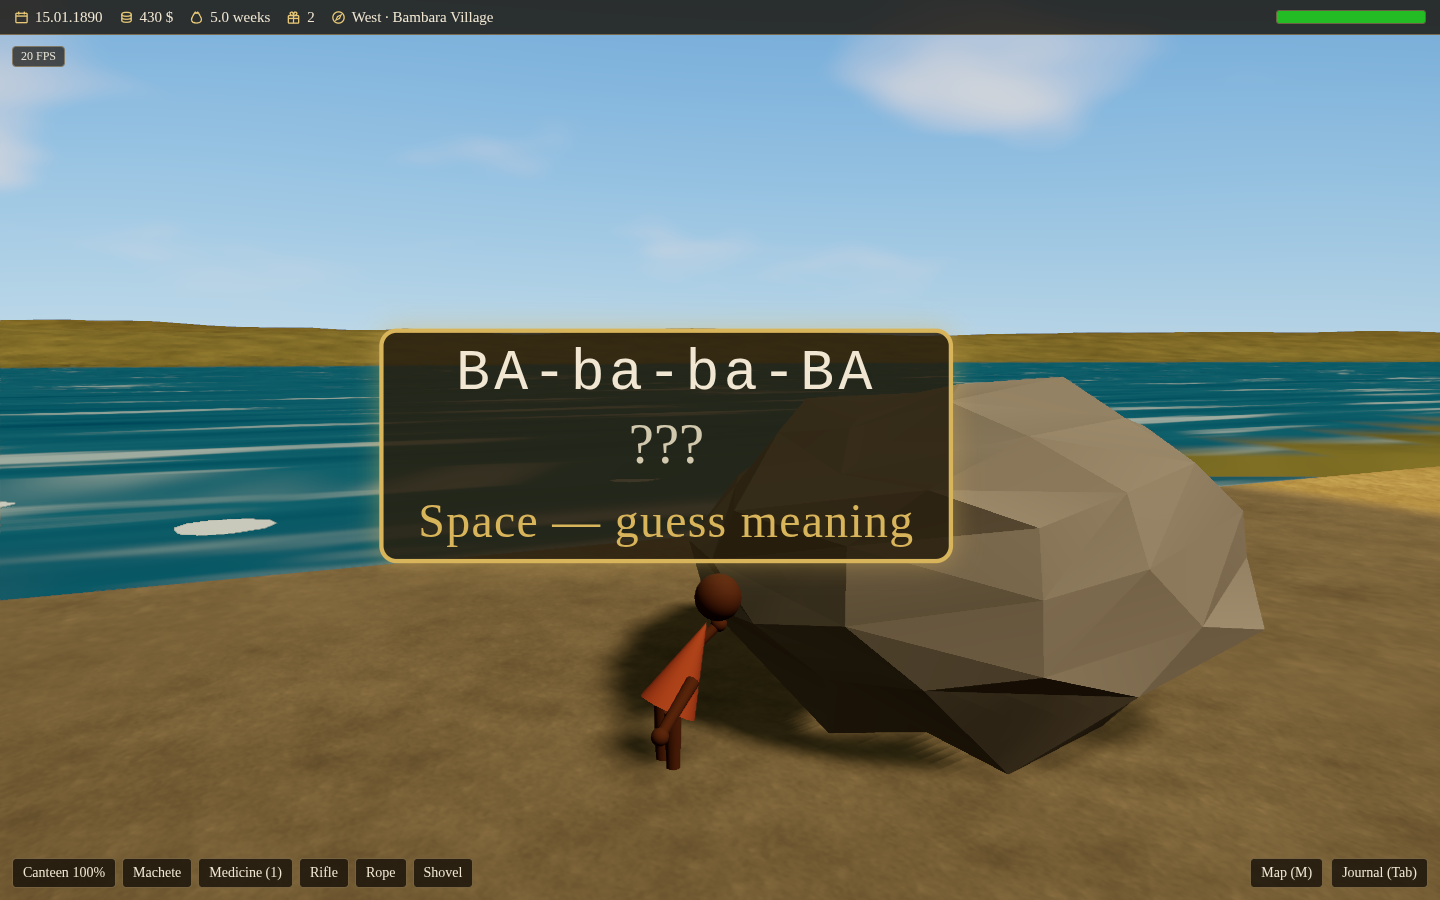
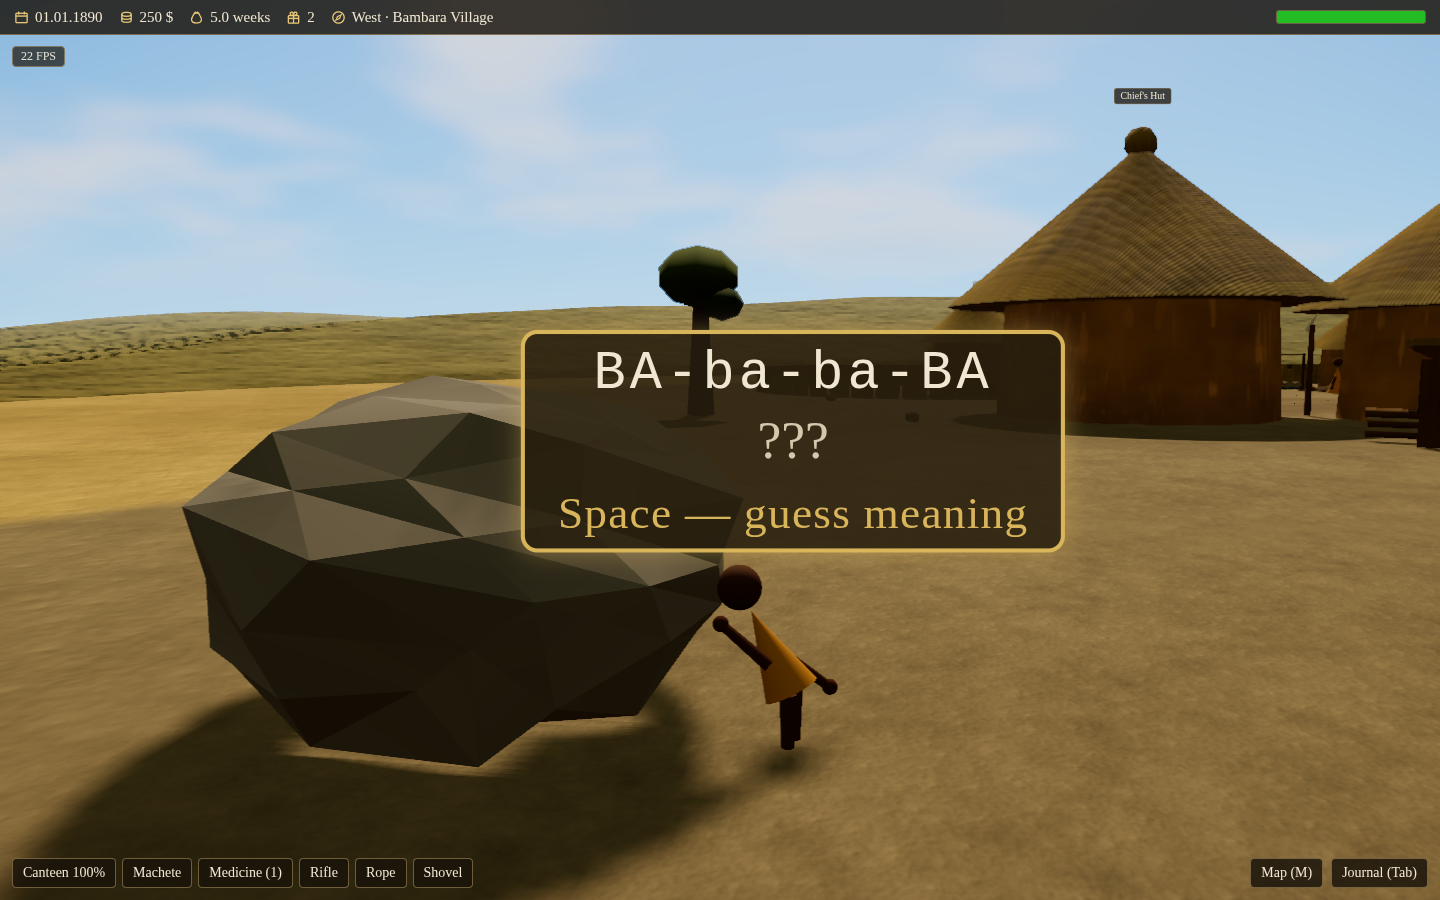
Photograph the tap from the side the reaching arm is on
The frame declared a hand on the drawn flank and showed a child leaning
against a rock with its visible arm hanging at its side. Both readings were
true: the touching hand is the LEFT one on a child that FACES the stone, and
the shot took its quarter turn blind, so from the wrong flank the child's own
body and head stood in front of its contact. The side is now chosen by the
thing that decides it — from which of the two does the drawn hand stand clear
of the drawn body — which needs no handedness convention, and the probe hands
out the body position that answers it.

Choosing a side made a latent flake in this section visible: the traveller is
the LISTENER as well as the camera, and the shot walks him 4.2 m off one rock.
From the far flank the next round's stone falls outside the hearing radius, its
tap is armless by design, and the section reads that as a tap spoken from the
waiting station — measured here at 60.9 cm with the word carrying 8.5 m. The
shot now hands the stance back to the spot the earshot check stood him on, so
it borrows the traveller rather than keeping him.

diff --git a/src/scenes/place/PlaceLife.tsx b/src/scenes/place/PlaceLife.tsx
@@ -1214,6 +1214,16 @@ function Kids({
             tapFor: bank.tapFor,
             end,
             rock: { x: rock.x, z: rock.z },
+            // WHICH SIDE THE REACH HANGS OFF. The touching hand is the LEFT one
+            // and the child faces the stone, so from the wrong flank the body
+            // stands in front of its own contact — the same miss the dip shot
+            // had. The picture check picks its side from this offset rather
+            // than assuming one (work-order 1065).
+            body: (() => {
+              const b = new THREE.Vector3()
+              g.getWorldPosition(b)
+              return { x: b.x, z: b.z }
+            })(),
             gesture: gestures.current[i]?.current?.kind ?? null,
             // Seconds the gesture has been running, so the swing can be placed
             // on its own clock rather than on the hold's.
